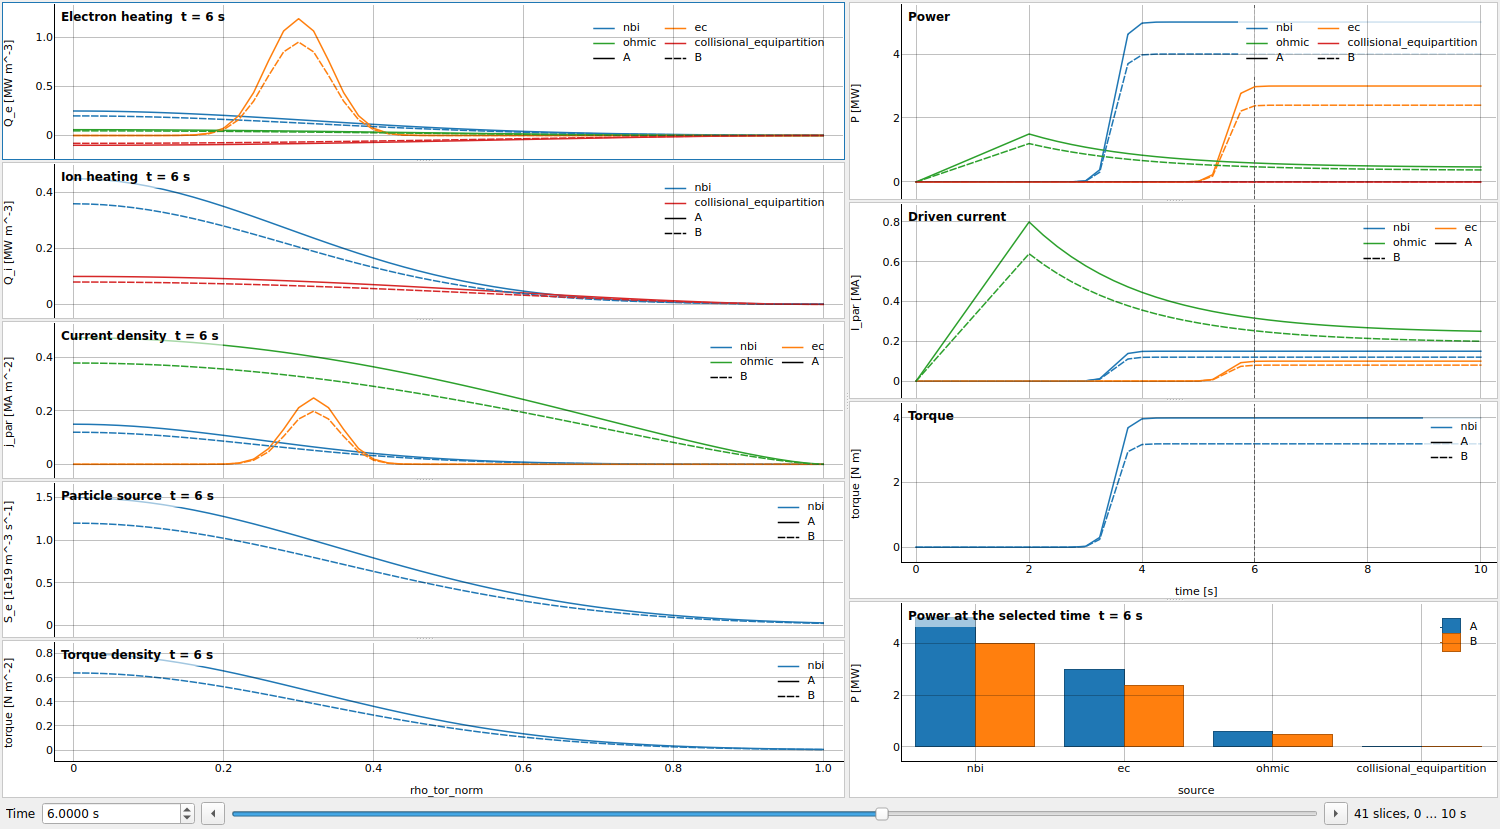
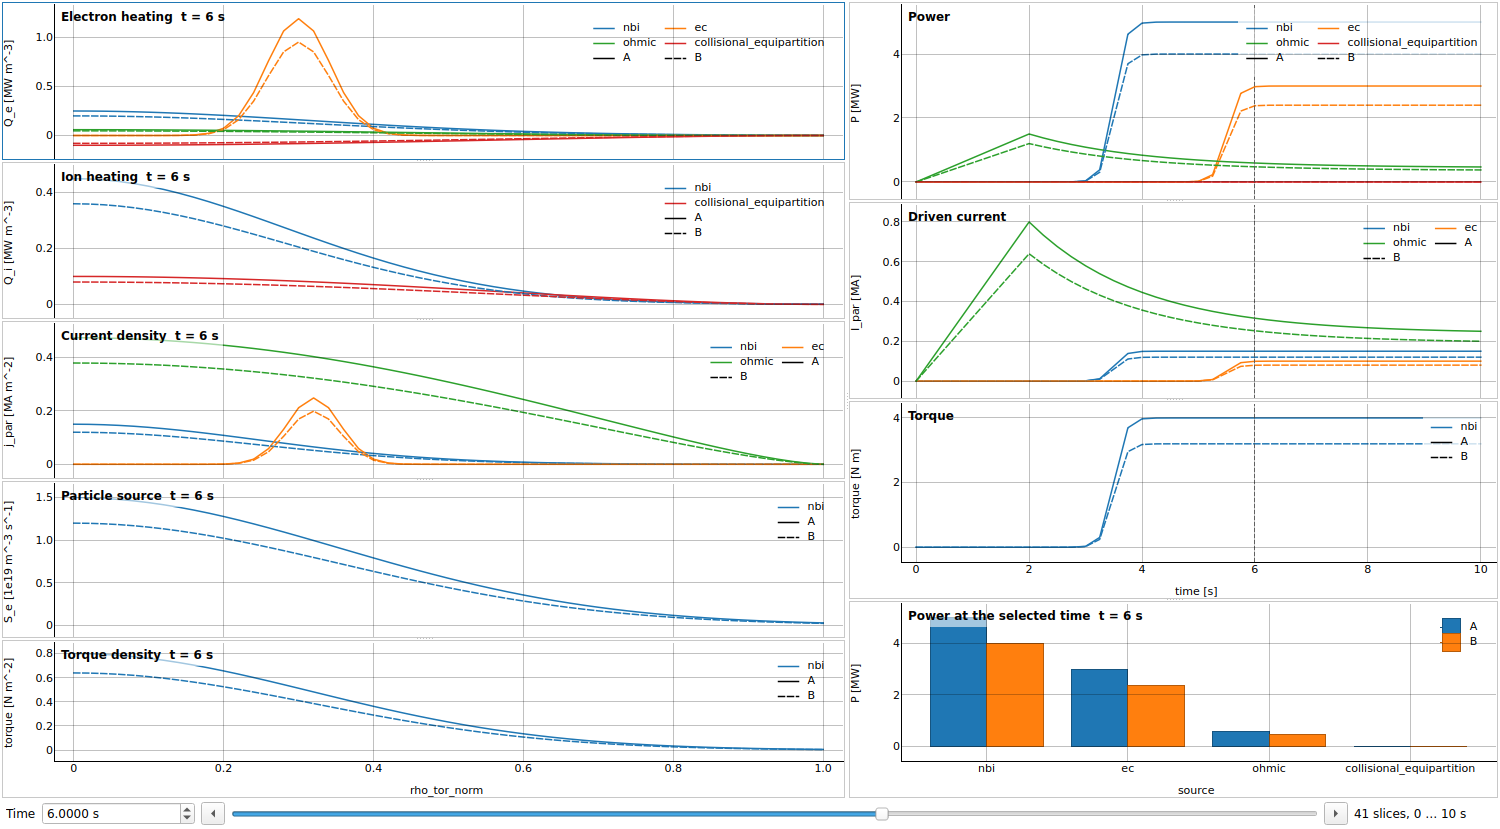
style: a white window around the plots
The window's own background (the headers of the panels, the time bar,
the docks, the tool and status bars) is white like the plots, which are
told apart by their borders. Dialogs keep the look of the system. The
screenshots of the README show it.

Claude-Session: https://claude.ai/code/session_018aVekYzCRLPE71Mm6UH8Zp

diff --git a/src/idscope/gui/mainwindow.py b/src/idscope/gui/mainwindow.py
@@ -162,6 +162,11 @@ class MainWindow(QtWidgets.QMainWindow):
         self._session_timer.setInterval(SESSION_DELAY_MS)
         self._session_timer.timeout.connect(self._write_session)
         self.resize(1300, 850)
+        # White around the plots as well (their headers, the time bar, the docks);
+        # the panels are told apart by their borders
+        palette = self.palette()
+        palette.setColor(QtGui.QPalette.ColorRole.Window, QtGui.QColor("white"))
+        self.setPalette(palette)
 
         self._build_toolbar()
         self.timebar = TimeBar()
